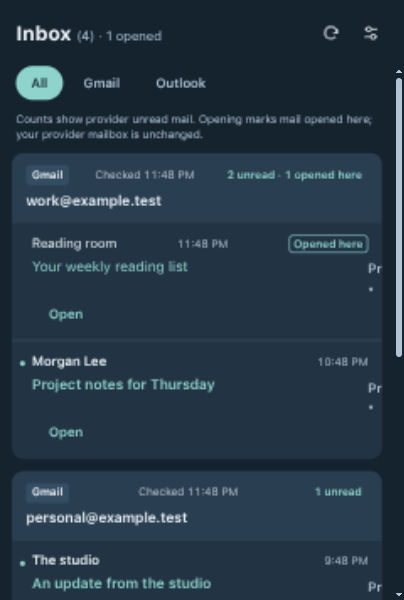
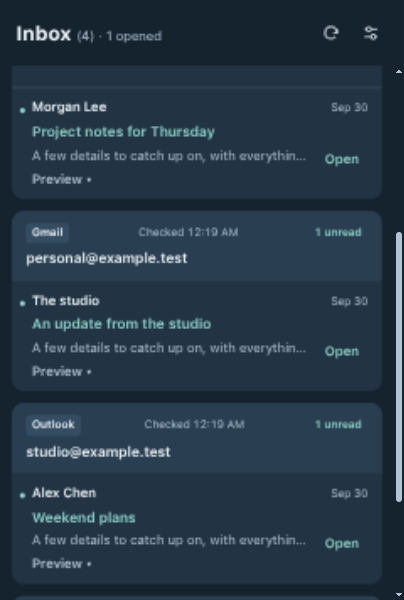
fix: give preview toggle and Open an explicit actions row
- The card restructure left the zero-basis snippet toggle sharing the heading's full flex line: zero width, no hit area, text still painting, clicks landing on the card. Toggle and Open now share a structural .card-actions row, verified live with real automation clicks.

- Adds a structural regression test for the row invariant; DESIGN.md records the explicit row; all 16 captures retaken with fresh hashes.

diff --git a/tests/popup-ui.test.js b/tests/popup-ui.test.js
@@ -408,6 +408,21 @@ test("preview cue names its collapse state", async () => {
   assert.equal(summary.getAttribute("aria-expanded"), "true");
 });
 
+test("toggle and open share an explicit actions row with a real hit area", async () => {
+  // Guards the zero-area toggle regression: the snippet toggle once rode
+  // the heading's full flex line with zero width and no hit area while its
+  // text still painted, so clicks landed on the card and did nothing.
+  const { document } = await workspaceFixture();
+  const card = document.querySelector(".card");
+  const row = card.querySelector(".card-actions");
+  assert.ok(row, "actions row exists");
+  assert.equal(row.parentElement, card, "row is a direct card child");
+  assert.ok(row.querySelector("button.card-summary"), "toggle lives in the row");
+  assert.ok(row.querySelector("button.card-open"), "open lives in the same row");
+  assert.equal(card.querySelector(".card-head")?.nextElementSibling, row, "row follows headings");
+  assert.equal(row.nextElementSibling?.className, "card-preview", "preview follows the row");
+});
+
 test("settings leads with accounts before themes", async () => {
   const { document } = await workspaceFixture();
   const labels = [...document.querySelectorAll("#settings-view > section")]

diff --git a/src/popup/popup.css b/src/popup/popup.css
@@ -69,7 +69,8 @@ input::placeholder { color: var(--muted); opacity: 1; }
 .opened-tag { font-size: 11px; font-weight: 600; color: var(--accent); border: 1px solid var(--accent); border-radius: 4px; padding: 0 4px; flex-shrink: 0; white-space: nowrap; }
 .unread-dot { position: absolute; left: 8px; top: 20px; width: 5px; height: 5px; border-radius: 50%; background: var(--accent); }
 .card.read .unread-dot { display: none; }
-.card-open { flex-shrink: 0; align-self: flex-start; margin: 0 0 0 8px; background: transparent; color: var(--accent); border-color: transparent; padding: 4px 8px; }
+.card-actions { display: flex; flex-basis: 100%; align-items: flex-start; gap: 8px; min-width: 0; }
+.card-open { flex-shrink: 0; align-self: flex-start; margin: 0; background: transparent; color: var(--accent); border-color: transparent; padding: 4px 8px; }
 .card-preview { flex-basis: 100%; white-space: pre-wrap; overflow-wrap: anywhere; padding-top: 8px; }
 .preview-cue { display: block; margin-top: 4px; font-size: 13px; font-weight: 600; color: var(--muted); }
 .mail-note { margin: 0; padding: 0 4px 8px; font-size: 11px; color: var(--muted); overflow-wrap: anywhere; }

diff --git a/src/popup/popup.js b/src/popup/popup.js
@@ -387,7 +387,13 @@ import { getSoundSettings, setMuted, setVolume, SOUND_SETTINGS_KEY, soundControl
         cue.setAttribute("aria-hidden", "true");
         cue.textContent = expanded.has(item.key) ? "Preview \u25B4" : "Preview \u25BE";
         summary.appendChild(cue);
-        card.append(summary, open);
+        // The toggle and Open share an explicit flex row. Implicit wrapping
+        // once stranded the zero-basis toggle on the heading's full line with
+        // zero width and no hit area, so the row is structural, not inferred.
+        var actionsRow = document.createElement("div");
+        actionsRow.className = "card-actions";
+        actionsRow.append(summary, open);
+        card.appendChild(actionsRow);
 
         var preview = document.createElement("div");
         preview.className = "card-preview";

diff --git a/docs/ui-workspace/README.md b/docs/ui-workspace/README.md
@@ -100,3 +100,14 @@ token; the opened preview shows the cached body text only. Autosize still
 PASSes with identical heights (requested 600px; Mail 534px; Settings 535px).
 Every inspected state had an empty console and no document horizontal overflow;
 177 Node tests pass (one jump-nav test retired with the feature).
+
+## Zero-area toggle fix
+
+The card restructure initially left the snippet toggle sharing the heading's
+full flex line with a zero basis, collapsing it to zero width: its text still
+painted, but clicks landed on the card and did nothing, and the toggle vanished
+from the accessibility tree. Toggle and Open now share an explicit
+`.card-actions` flex row, verified live at 276px wide with real automation
+clicks driving both preview expansion and the Open path. A structural test
+guards the row invariant (linkedom cannot measure layout). All 16 captures were
+retaken; 178 Node tests pass.

diff --git a/DESIGN.md b/DESIGN.md
@@ -227,7 +227,7 @@ unread dot. Settings panels use a 14px inset.
 
 Account identity wraps; sender, subject and snippet collapse with a one-line
 ellipsis until preview text is expanded. Buttons and account actions wrap.
-Mail rows keep static headings above a snippet toggle and Open on one flex line.
+Mail rows keep static headings above a snippet toggle and Open sharing one explicit actions row.
 Account headers show a visible per-account checked time from the worker-persisted
 stamp; failed or paused accounts show no stamp. Counts report provider unread mail
 with an opened-here suffix when mail was opened locally. A muted mail note states
